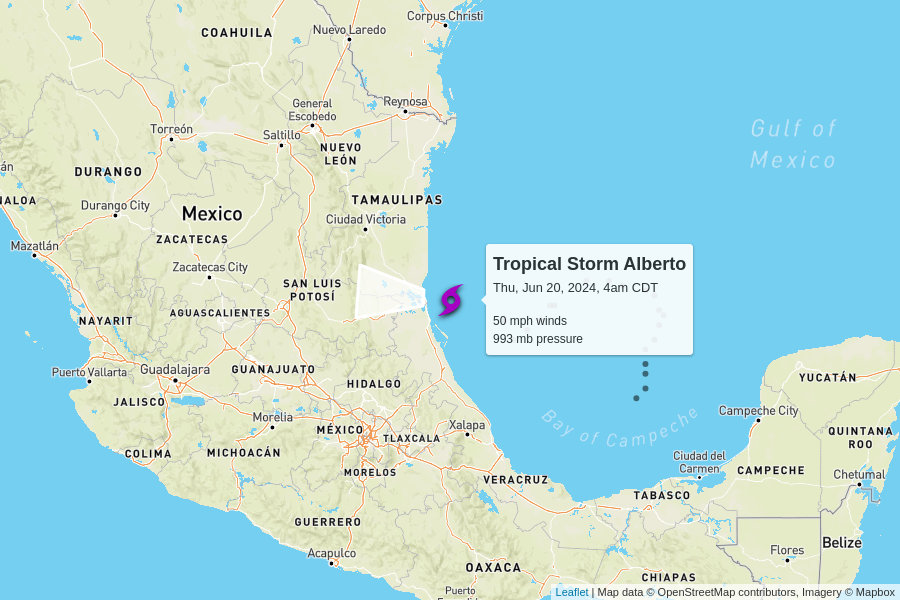
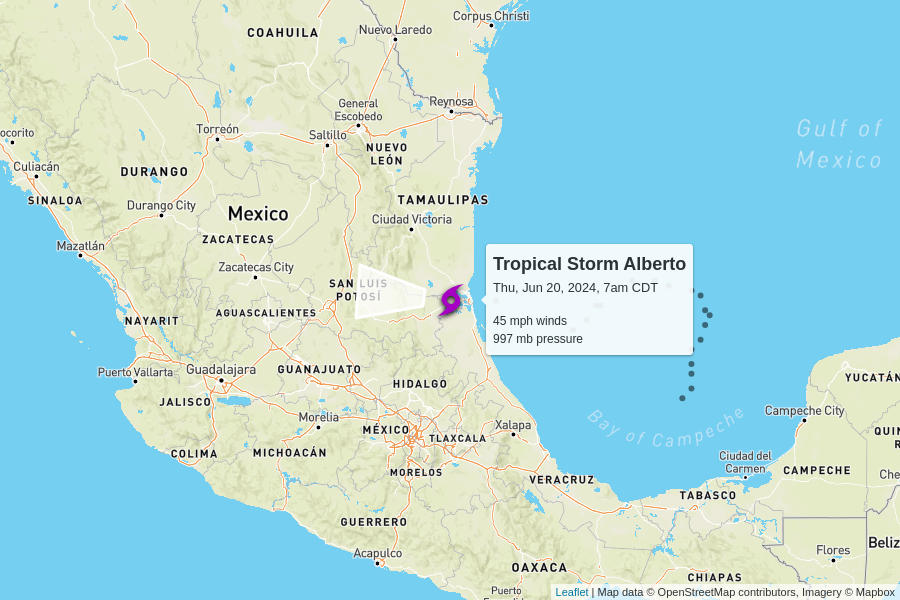
automatic update

diff --git a/docs/index.html b/docs/index.html
@@ -102,7 +102,7 @@
         <td colspan="6" class="storm category-0" >
           <h2>
             Tropical Storm Alberto
-            <p class="updated">last updated <span data-time>2024-06-20T09:00:00.000Z</span></p>
+            <p class="updated">last updated <span data-time>2024-06-20T12:00:00.000Z</span></p>
           </h2>
         </td>
       </tr>
@@ -117,8 +117,8 @@
       </tr>
       <tr>
         <td class="spacer"></td>
-        <td>50 mph<br>0 mph since last update</td>
-        <td>993 mb<br>0 mb since last update</td>
+        <td>45 mph<br>-5 mph since last update</td>
+        <td>997 mb<br>+4 mb since last update</td>
         <td>
           13 mph to the west
           <br/>
